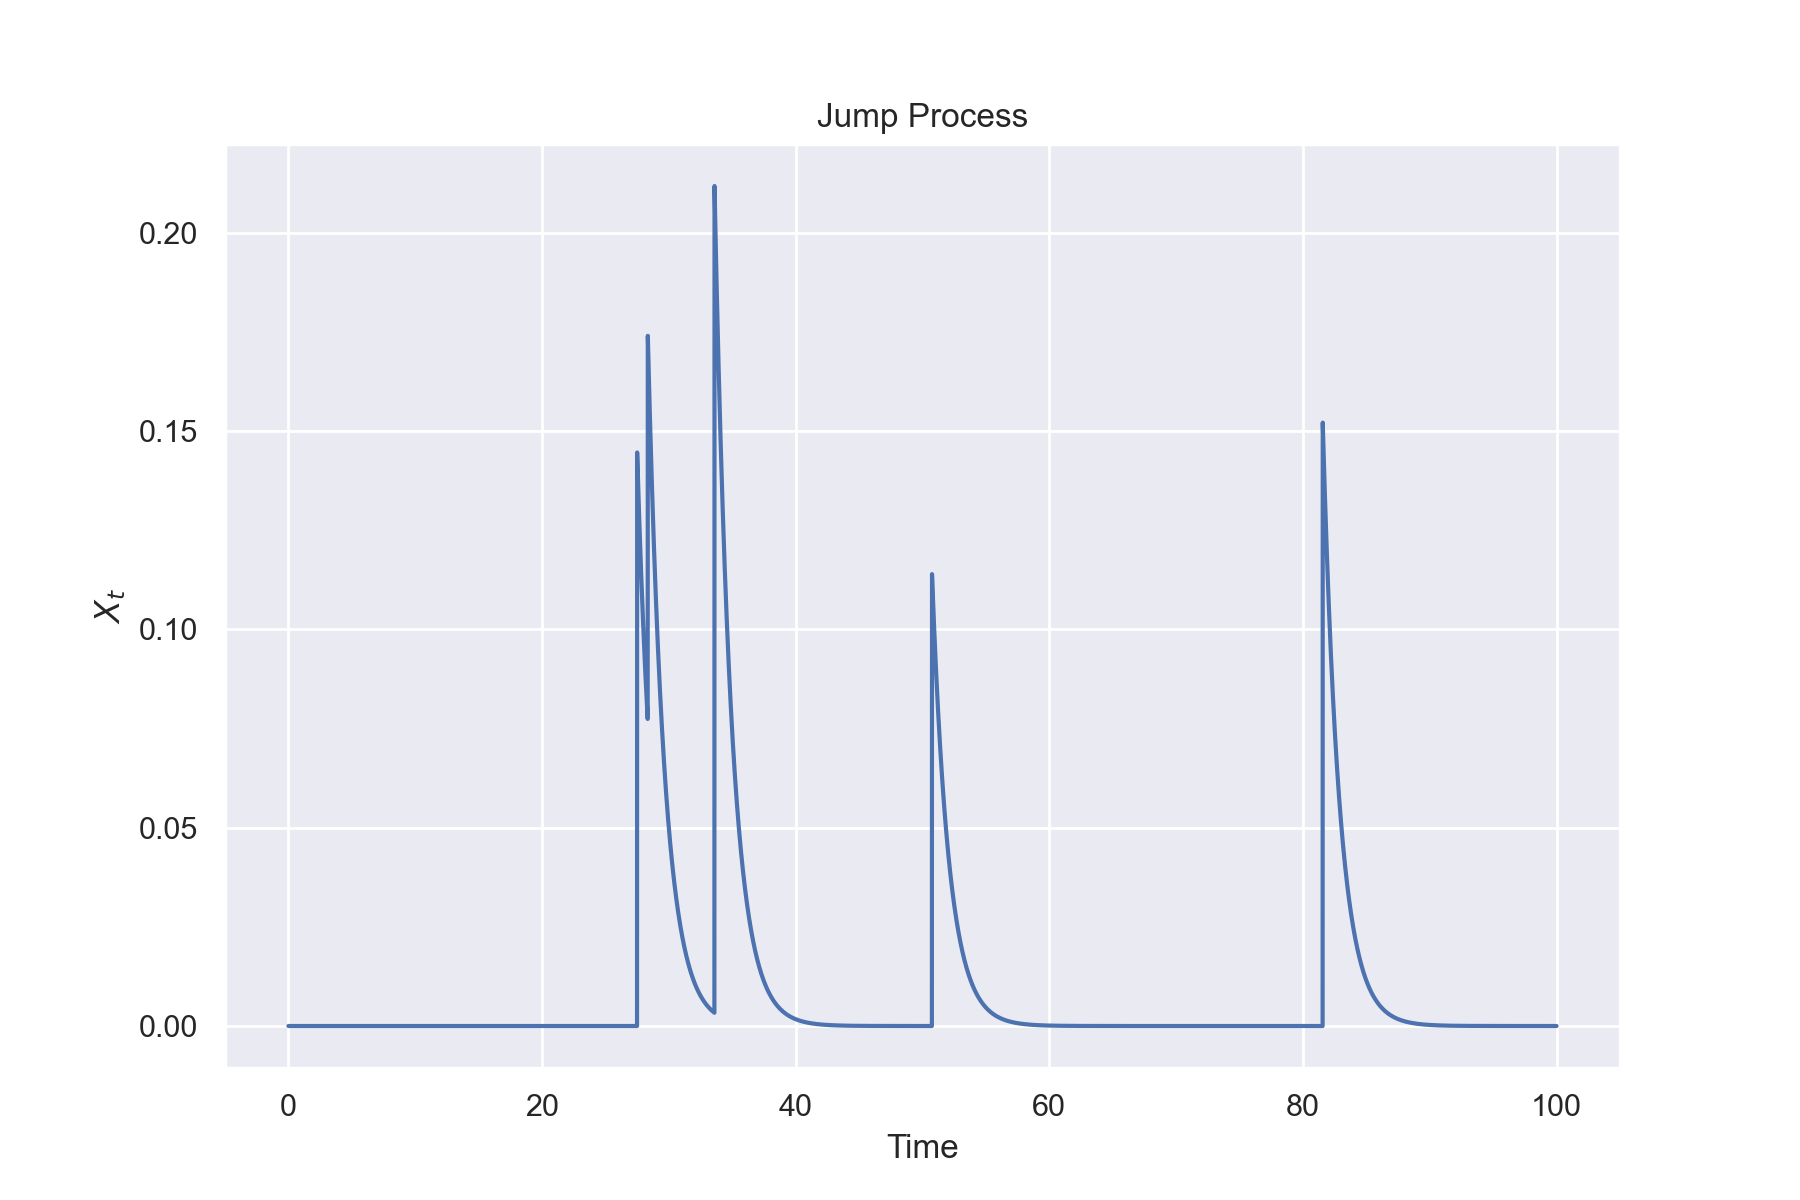
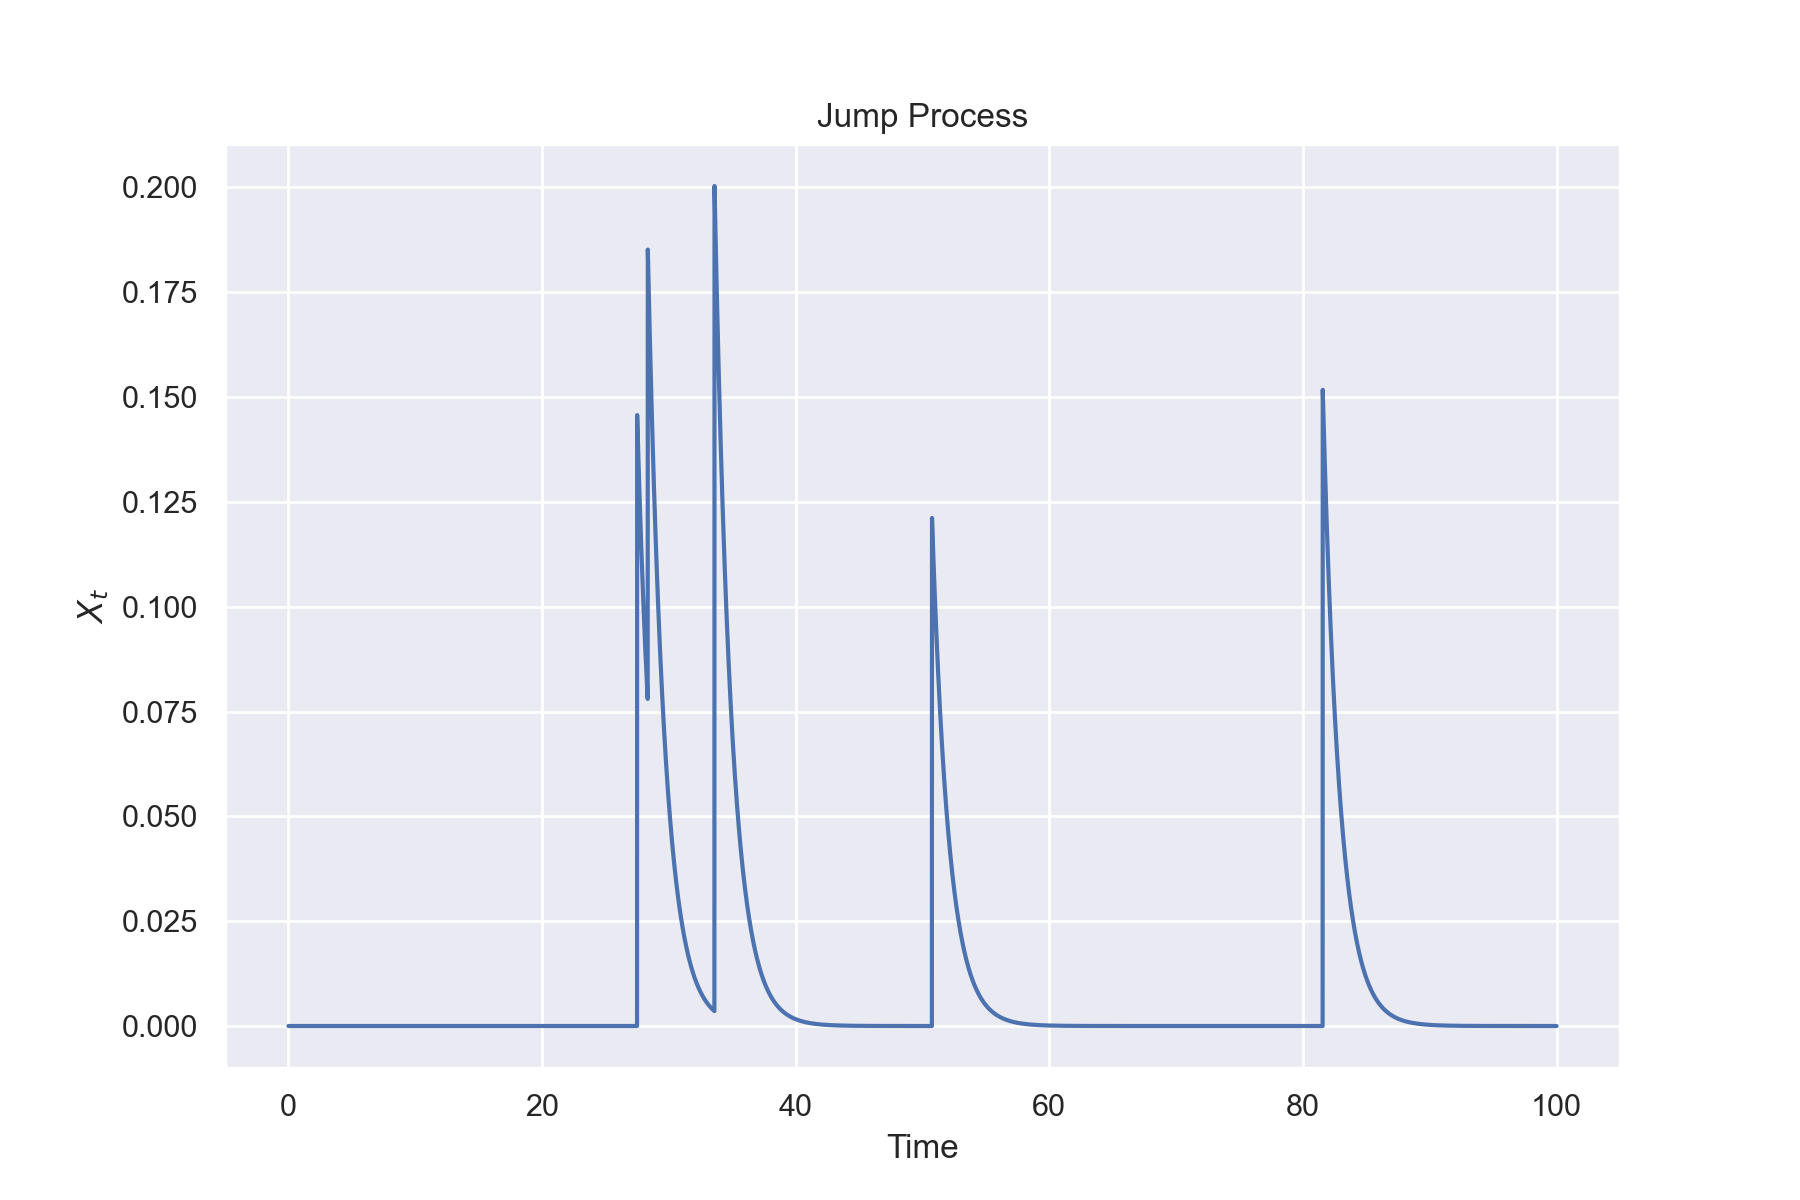
Stochastic processes

diff --git a/projects/Biophysics-Book/Stochastic-Processes.html b/projects/Biophysics-Book/Stochastic-Processes.html
@@ -717,8 +717,19 @@ plt.show()</pre>
                 <h4>Compound Poisson Process</h4>
                 The Poisson process can be further generalized to allow for variable-sized jumps rather than just jumps of 1. 
                 This is known as a "Compound Poisson Process." 
+                <br>
+                We can write the dynamics in differential form with dJ and explain how the jumps are distributed and at what rate. 
+
     
                 <h5>Compound Poisson Process Example</h5>
+
+                Let X be a compound Poisson process with dynamics
+
+                $$dX_t=dJ_t$$
+                where the jumps, J, have parameters
+
+                \(\lambda=1\), \(J\sim N(0,1)\).
+                <br>
                 Note that the variable X is not continuous during jumps. Faint purple lines are added on the graph for visual clarity.
                 <img src="CompoundPoissonGraph.png" alt="Compound Poisson Process Graph" style="margin:auto; display: block;  width:clamp(400px,50vw, 800px)"/>
                 Python code:
@@ -759,9 +770,14 @@ plt.show()</pre>
                 <h5>Jump Process</h5>
                 We can add deterministic movement between jumps to our compound Poisson process. 
 
-
+                
                 Below is an example of exponential decay between jump events.
 
+                Let X be a jump process with dynamics
+                $$dX_t=-0.75X_tdt+dJ$$
+                where J has rate \(\lambda=0.01\) and \(J\sim N(0.15,0.2)\)
+
+ 
                 <img src="JumpProcess.png" alt="Compound Poisson Process Graph" style="margin:auto; display: block;  width:clamp(400px,50vw, 800px)"/>
                 Python code:
                 <code style="margin: auto; width: 50%;"><pre>
@@ -774,7 +790,7 @@ mu = -0.75         # Drift coefficient
 
 lambda_ = 0.01      # Jump frequency
 jump_mean = 0.15    # Mean jump size
-jump_std = 0.05     # Standard deviation of jump size
+jump_std = 0.04     # Standard deviation of jump size
 
 # Initialize arrays
 t = np.linspace(0, T, N+1)
@@ -876,6 +892,23 @@ plt.show()</pre>
                 <li><a href="https://www.math.uchicago.edu/~lawler/finbook.pdf">https://www.math.uchicago.edu/~lawler/finbook.pdf</a></li>
             </ol>
 
+        </div>
+
+        <div>
+            <h2>Exercises</h2>
+            <ol>
+                <li>The Ornstein-Uhlenbeck process is given by
+                    $$dX_t=-\theta X_t dt+\sigma dW_t$$
+                    Simulate it with the following parameters:
+                    <ul>
+                        <li>\(\theta=0.25\)</li>
+                        <li>T=10</li>
+                        <li>\(X_0=0\)</li>
+                        <li>\(\sigma=1\)</li>
+                    </ul>
+                </li>
+                <li></li>
+            </ol>
         </div>
 </body>
 </html>
